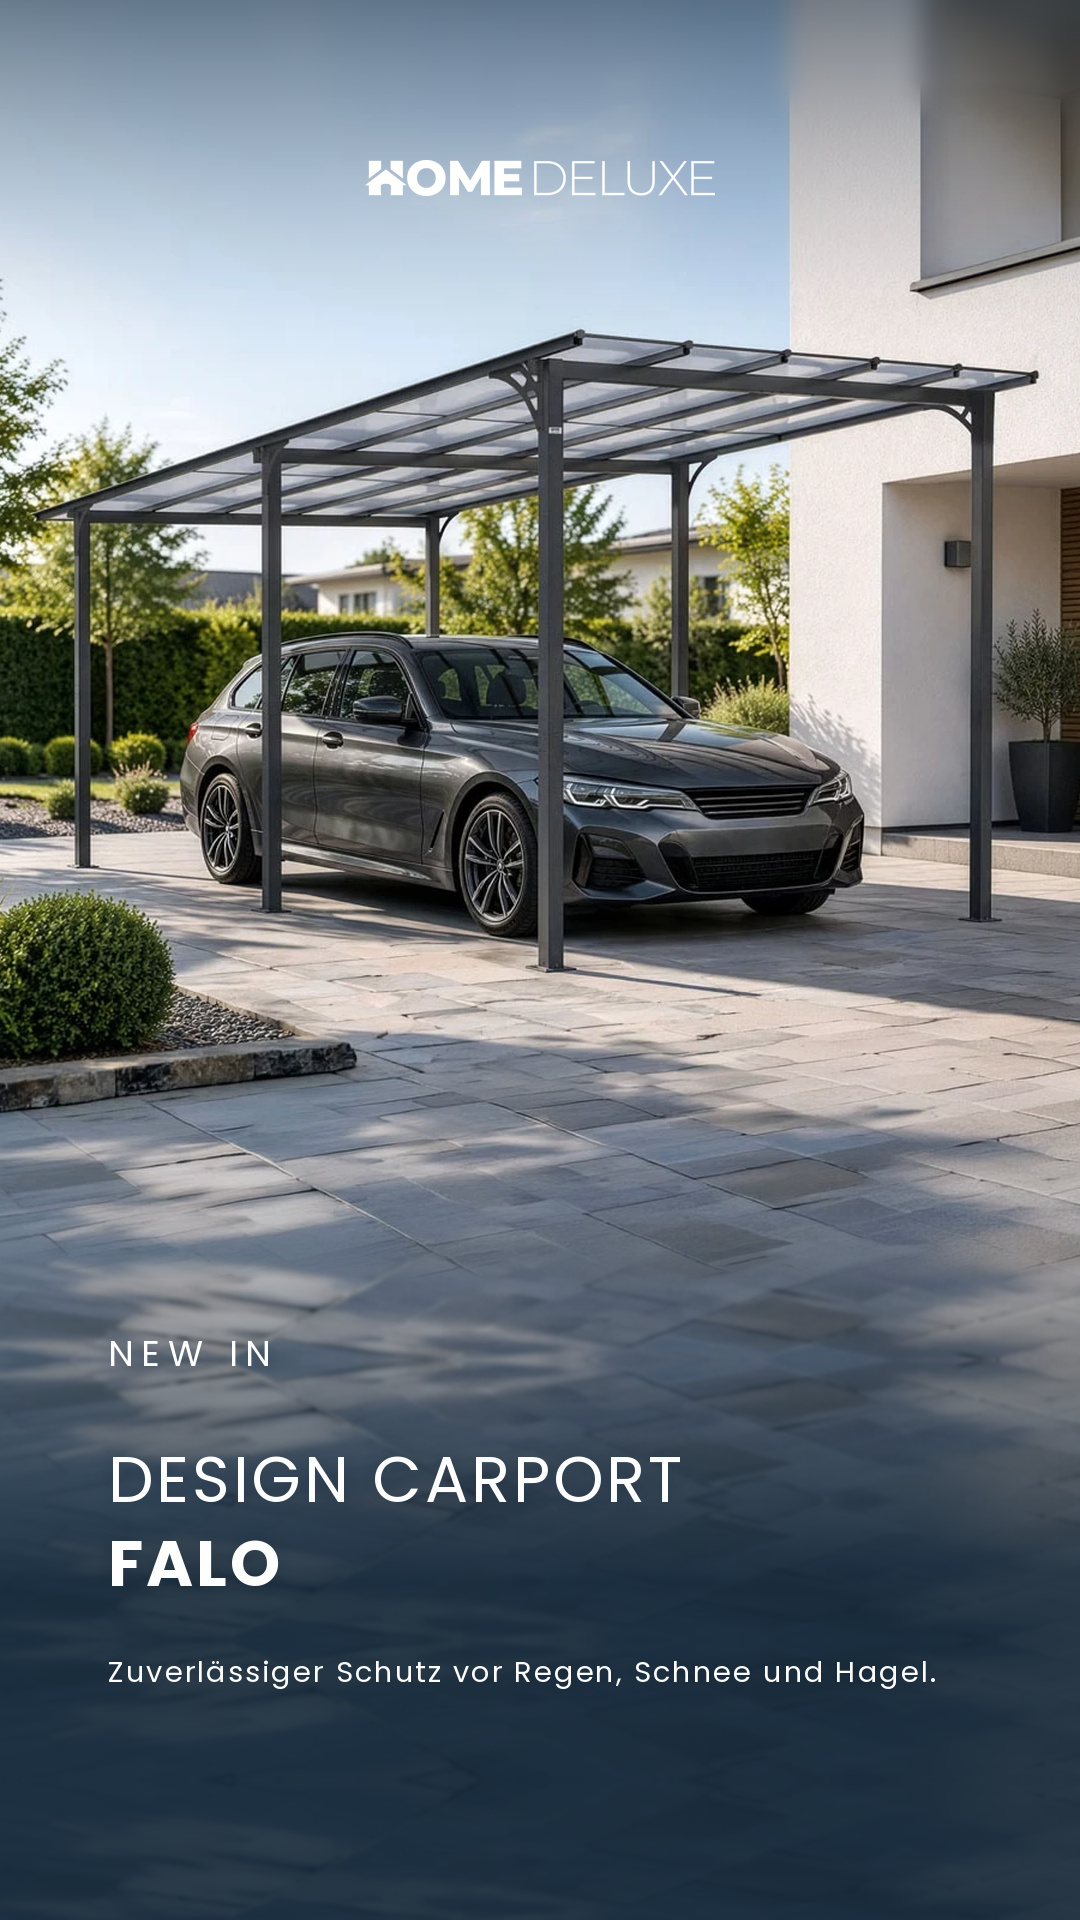
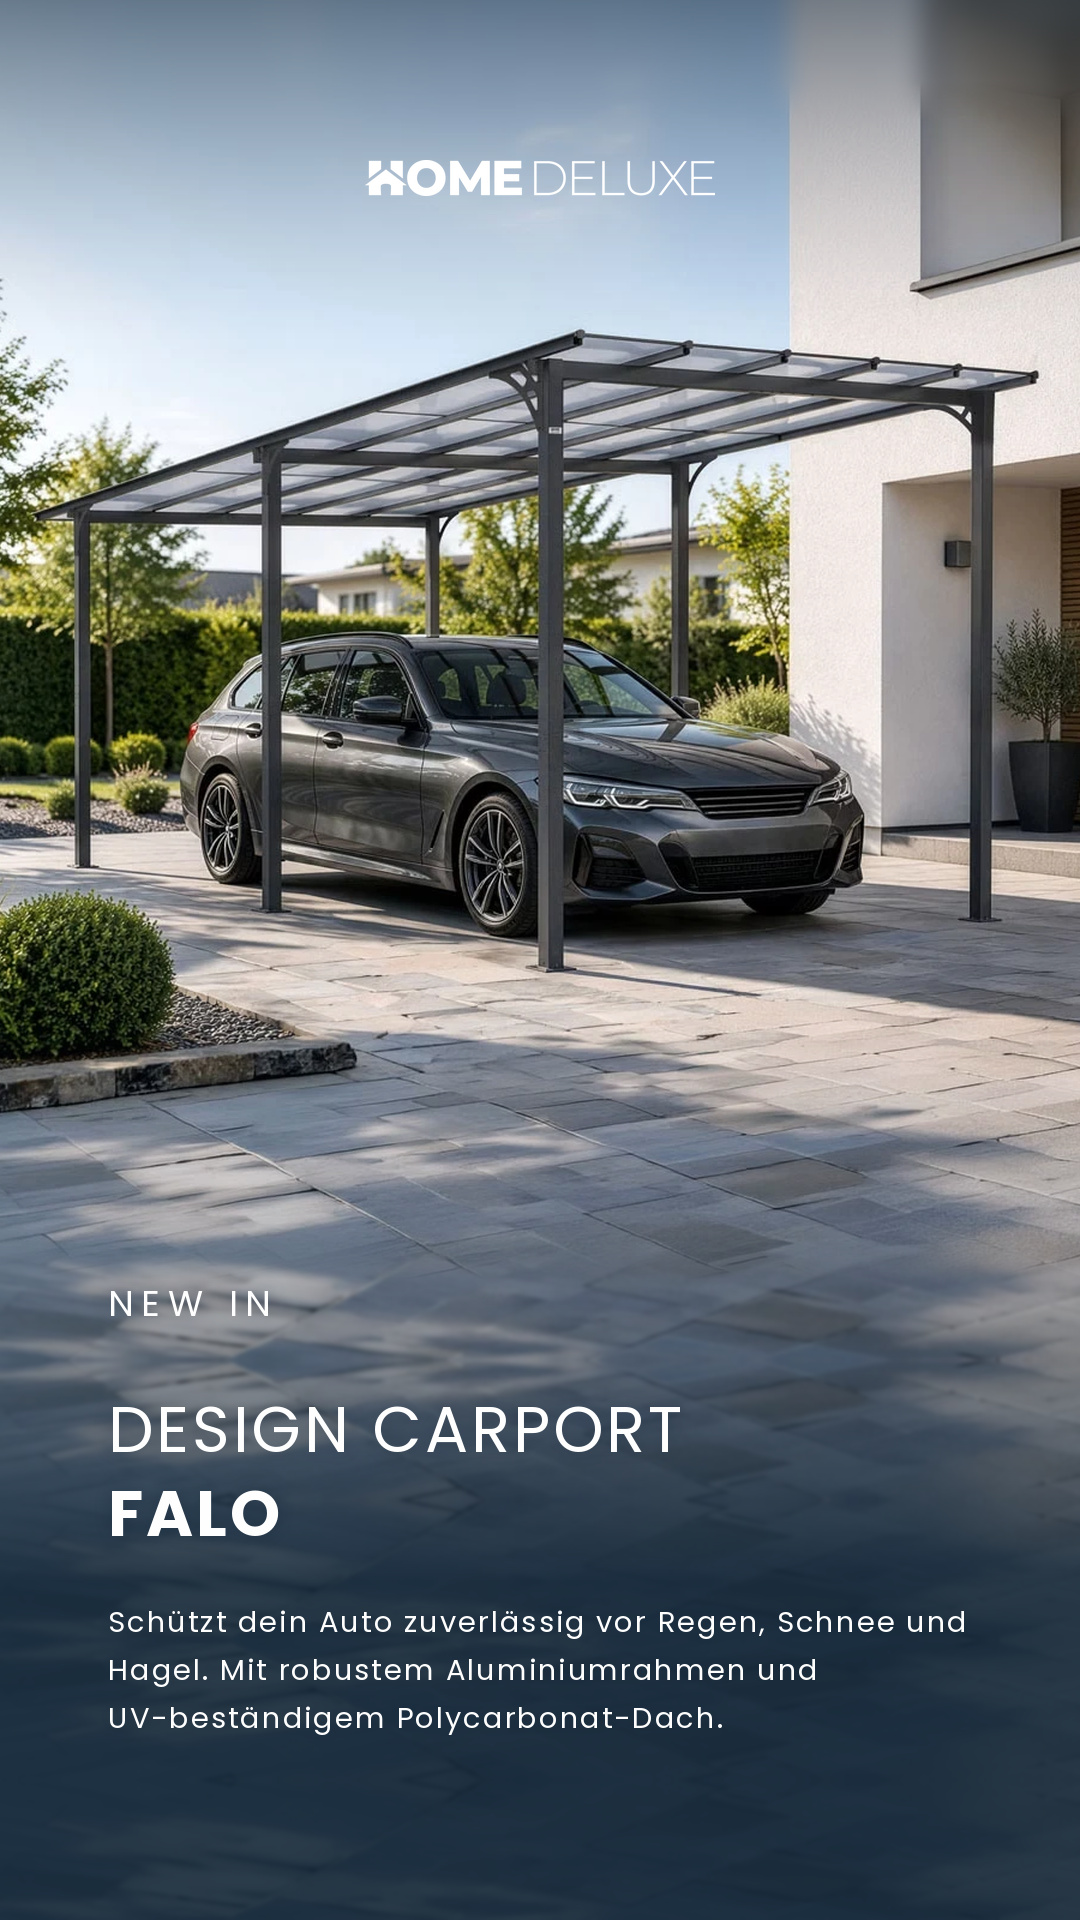
Carport story: restore full body copy without dash
Claude-Session: https://claude.ai/code/session_01Fj9eHpP9dbzvtZ5kEGWanM

Changed region(s): [[0.0917, 0.6562, 0.8556, 0.9062]]

diff --git a/reels/src/story_overlay.py b/reels/src/story_overlay.py
@@ -14,7 +14,8 @@ MX = 108  # linker Textrand
 KICKER = "NEW IN"
 NAME_LIGHT = "DESIGN CARPORT"
 NAME_BOLD = "FALO"
-BODY = "Zuverlässiger Schutz vor Regen, Schnee und Hagel."
+BODY = ("Schützt dein Auto zuverlässig vor Regen, Schnee und Hagel. Mit robustem "
+        "Aluminiumrahmen und UV-beständigem Polycarbonat-Dach.")
 
 
 def font(w, size):
@@ -82,9 +83,9 @@ f_light = font(400, 64)
 f_bold = font(700, 64)
 f_body = font(400, 29)
 
-tracked(d, MX, 1366, KICKER, f_kick, 8)
-tracked(d, MX, 1502, NAME_LIGHT, f_light, 3)
-tracked(d, MX, 1586, NAME_BOLD, f_bold, 3)
+tracked(d, MX, 1316, KICKER, f_kick, 8)
+tracked(d, MX, 1452, NAME_LIGHT, f_light, 3)
+tracked(d, MX, 1536, NAME_BOLD, f_bold, 3)
 
 # Beschreibung umbrechen
 maxw = W - 2 * MX
@@ -98,7 +99,7 @@ for w in words:
         cur = w
 lines.append(cur)
 for i, ln in enumerate(lines):
-    tracked(d, MX, 1682 + i * 48, ln, f_body, 2)
+    tracked(d, MX, 1632 + i * 48, ln, f_body, 2)
 
 # dezenter Navy-Schatten unter der Schrift für Lesbarkeit
 shadow = Image.new("RGBA", (W, H), NAVY + (0,))
